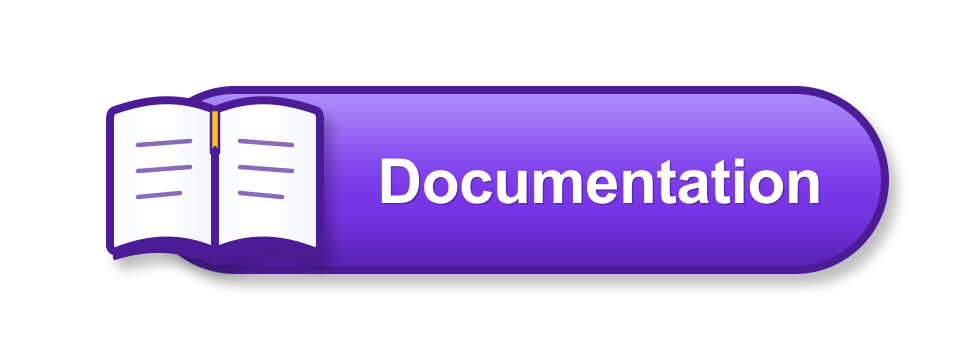
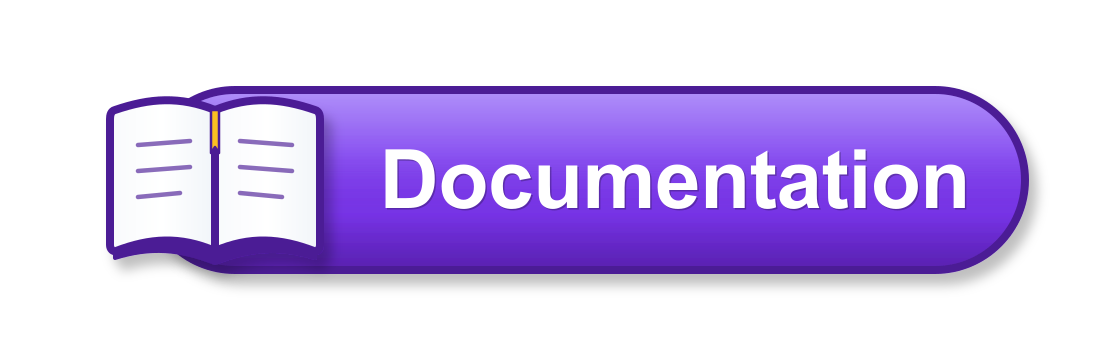
feat(ui): ajuster la taille du texte Documentation à 82px et élargir le bouton à 1100px

Changed region(s): [[0.0907, 0.2139, 0.877, 0.7944], [0.8467, 0.2139, 0.9677, 0.7944]]

diff --git a/README.md b/README.md
@@ -27,9 +27,9 @@
   <br>
   <br>Site officiel : <a href="https://codelab.univ-lemans.fr">https://codelab.univ-lemans.fr</a> &nbsp;|&nbsp; 📖 <a href="https://jlehuen.github.io/CodeLab/doc-fr/">Documentation</a>
   <br><br>
-  <a href="#téléchargements"><img src="client/images/download.png" alt="Téléchargements" width="160"></a>
+  <a href="#téléchargements"><img src="client/images/download.png" alt="Téléchargements" width="160" height="60"></a>
   &emsp;
-  <a href="https://jlehuen.github.io/CodeLab/doc-fr/"><img src="client/images/documentation.png" alt="Documentation" width="160"></a>
+  <a href="https://jlehuen.github.io/CodeLab/doc-fr/"><img src="client/images/documentation.png" alt="Documentation" width="184" height="60"></a>
 </p>
 
 **CodeLab** est un environnement pédagogique dédié à l'apprentissage de la programmation en collège, lycée et premières années d'études supérieures. Son originalité est qu'il propose des alternatives ludiques ou techniques aux traditionnelles interactions écran-clavier pour la conception des activités pédagogiques, au travers de l'utilisation de "modules applicatifs". Ces modules, disponibles sous la forme de plugins, peuvent être des **visualisations**, des **panneaux de contrôle**, des **simulateurs**, et autres systèmes temps-réel. Chaque module est l'association d'une **IHM** (Interface Homme-Machine) et d'une interface de programmation applicative (souvent désignée par le terme **API** pour Application Programming Interface), disponible pour chacun des langages supportés par CodeLab. Les apprenants peuvent ainsi se focaliser sur les aspects algorithmiques et sur le codage, tout en travaillant sur des applications qui possèdent des caractéristiques riches et motivantes :
@@ -124,7 +124,7 @@ Toutes les versions disponibles sont dans la section [Releases](https://github.c
 ## Documentation
 
 <p align="center">
-  <a href="https://jlehuen.github.io/CodeLab/doc-fr/"><img src="client/images/documentation.png" alt="Accéder à la Documentation CodeLab" width="170"></a>
+  <a href="https://jlehuen.github.io/CodeLab/doc-fr/"><img src="client/images/documentation.png" alt="Accéder à la Documentation CodeLab" width="184" height="60"></a>
 </p>
 
 La documentation interactive de CodeLab est consultable en ligne sur **[https://jlehuen.github.io/CodeLab/doc-fr/](https://jlehuen.github.io/CodeLab/doc-fr/)** (ou directement dans les sources Markdown [`mkdocs/doc-fr/`](mkdocs/doc-fr/)) :

diff --git a/README.en.md b/README.en.md
@@ -27,9 +27,9 @@
   <br>
   <br>Official website: <a href="https://codelab.univ-lemans.fr">https://codelab.univ-lemans.fr</a> &nbsp;|&nbsp; 📖 <a href="https://jlehuen.github.io/CodeLab/doc-en/">Documentation</a>
   <br><br>
-  <a href="#downloads"><img src="client/images/download.png" alt="Downloads" width="160"></a>
+  <a href="#downloads"><img src="client/images/download.png" alt="Downloads" width="160" height="60"></a>
   &emsp;
-  <a href="https://jlehuen.github.io/CodeLab/doc-en/"><img src="client/images/documentation.png" alt="Documentation" width="160"></a>
+  <a href="https://jlehuen.github.io/CodeLab/doc-en/"><img src="client/images/documentation.png" alt="Documentation" width="184" height="60"></a>
 </p>
 
 **CodeLab** is an educational programming environment dedicated to teaching and learning programming in middle schools, high schools, and introductory higher education courses. Its key innovation is offering playful and interactive alternatives to traditional screen-keyboard interactions for pedagogical activities through "application modules". These modules, available as plugins, include **visualizations**, **control panels**, **simulators**, and other real-time systems. Each module pairs a **GUI** (Graphical User Interface) with an application programming interface (**API**) available across all languages supported by CodeLab. Learners can thus focus on algorithms and coding while interacting with rich, engaging, and motivating applications:
@@ -123,7 +123,7 @@ All available releases can be found in the CodeLab [Releases](https://github.com
 ## Documentation
 
 <p align="center">
-  <a href="https://jlehuen.github.io/CodeLab/doc-en/"><img src="client/images/documentation.png" alt="Access CodeLab Documentation" width="170"></a>
+  <a href="https://jlehuen.github.io/CodeLab/doc-en/"><img src="client/images/documentation.png" alt="Access CodeLab Documentation" width="184" height="60"></a>
 </p>
 
 The interactive CodeLab documentation is available online at **[https://jlehuen.github.io/CodeLab/doc-en/](https://jlehuen.github.io/CodeLab/doc-en/)** (or directly in the Markdown source directory [`mkdocs/doc-en/`](mkdocs/doc-en/)):
